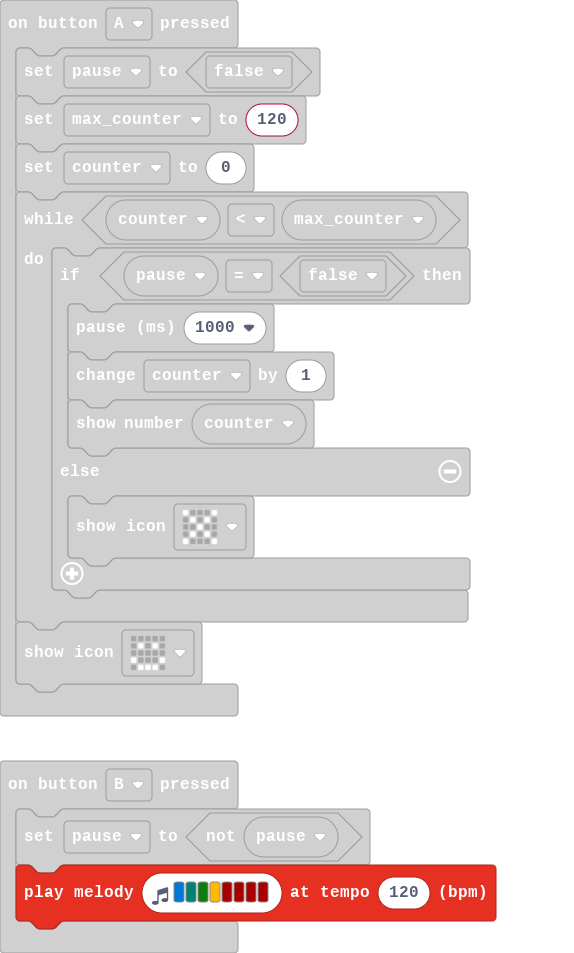
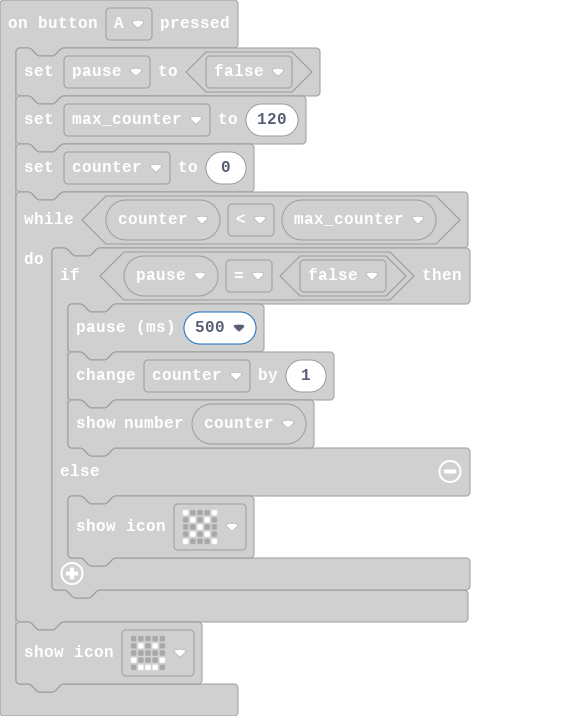
Adjusted wait time

diff --git a/main.ts b/main.ts
@@ -7,7 +7,7 @@ input.onButtonPressed(Button.A, function () {
     counter = 0
     while (counter < max_counter) {
         if (pause2 == false) {
-            basic.pause(1000)
+            basic.pause(500)
             counter += 1
             basic.showNumber(counter)
         } else {
